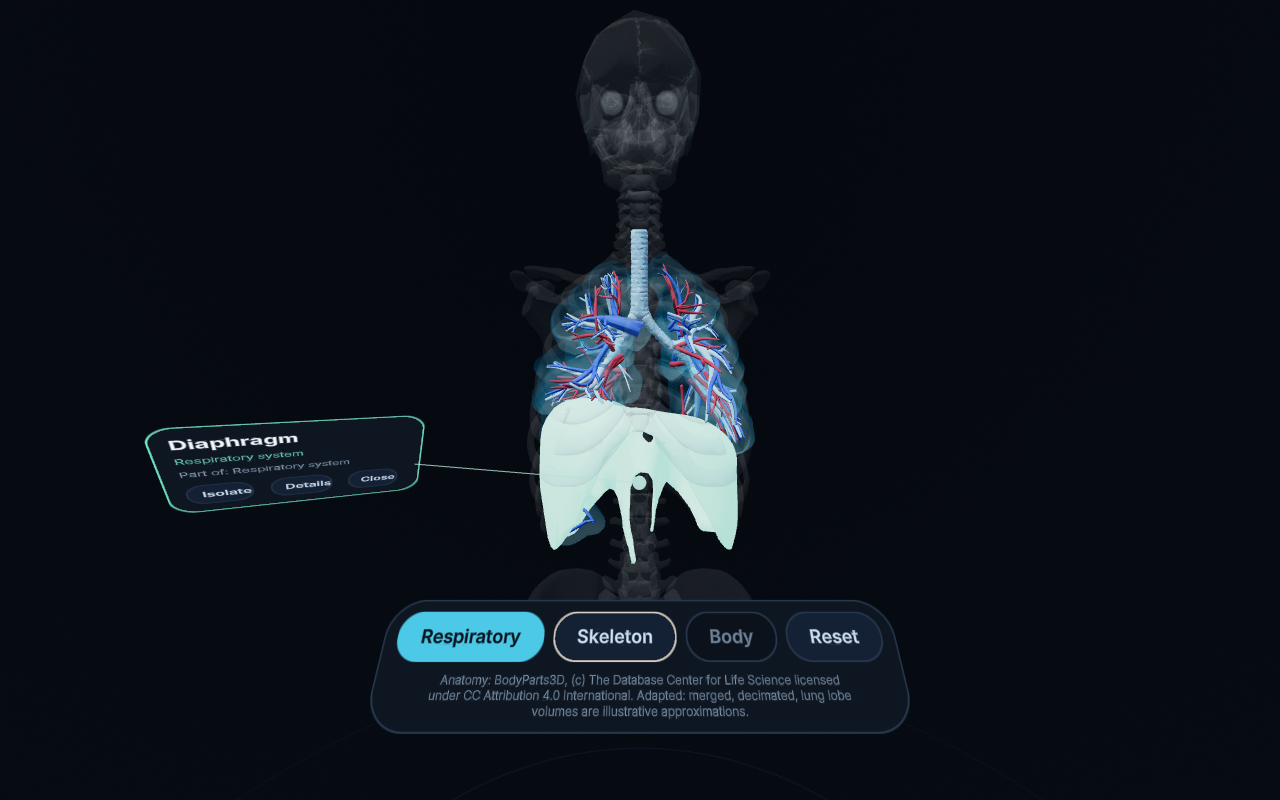
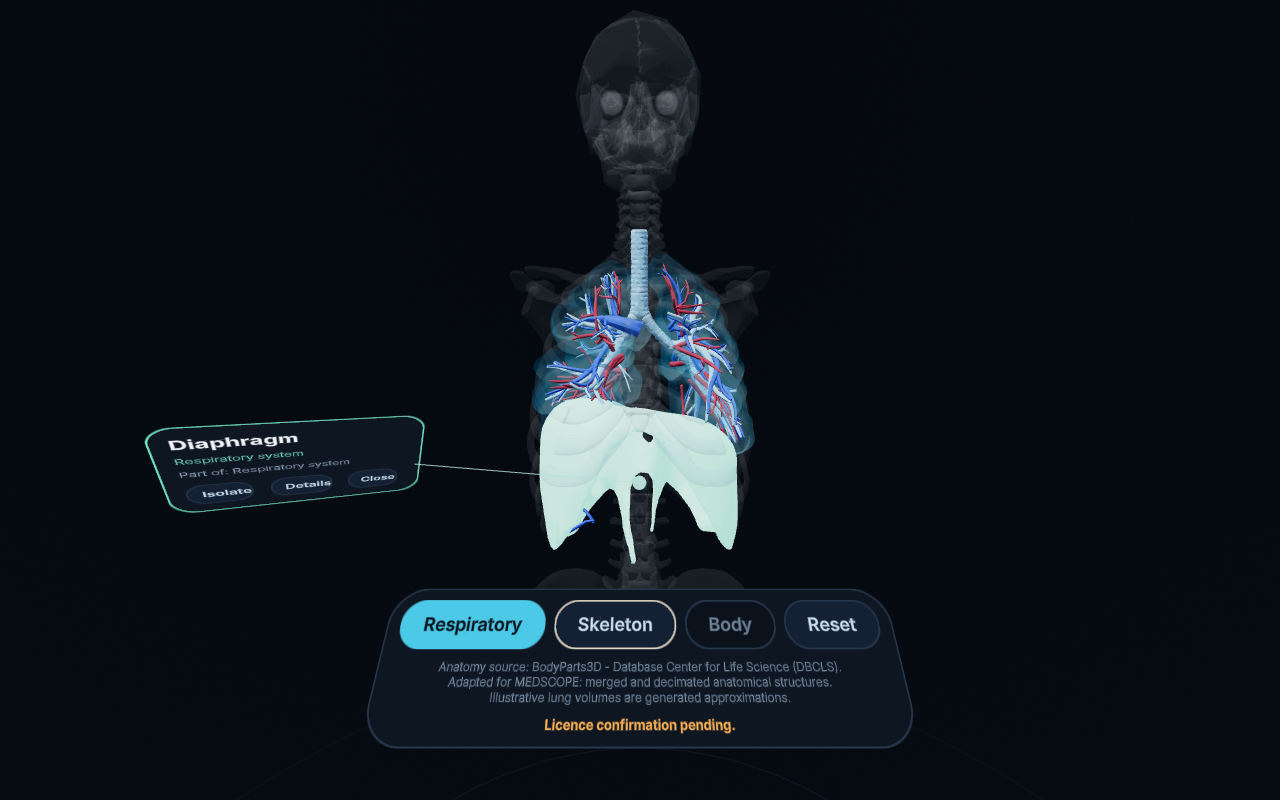
fix: neutral licence attribution, font audit, reproducible production check
Follow-up to 495bb92 (not an amend: that commit is already reviewed and
referenced).

- In-app attribution no longer names a licence. DBCLS has not confirmed which
  applies, so the dock now reads "Anatomy source: BodyParts3D - Database Center
  for Life Science (DBCLS). Adapted for MEDSCOPE: merged and decimated
  anatomical structures. Illustrative lung volumes are generated
  approximations." with an amber "Licence confirmation pending." line. A hyphen
  replaces the em dash because the UI font renders em dashes as a missing glyph.
- docs/asset-licenses.md: interim wording and its limits, full licence history
  preserved, new font audit (Inter, SIL OFL 1.1 per the package licence, atlases
  hash-matched to the build; OFL notice not yet shipped), updated open items.
  The DBCLS email draft now quotes the neutral wording.
- verify-production.mjs rewritten as a self-asserting suite: starts its own
  preview server, measures pixel regions, covers the Details/Less toggle and
  restore, and fails on a missed click (proven with a negative test). Playwright
  is now an explicit devDependency pinned to 1.65.1, the version already
  installed transitively, so nothing is upgraded. Adds `npm run verify:production`.
- Screenshots refreshed so none show the previous attribution text.

Licence status remains UNCONFIRMED. Do not publish or push the derived assets.

Changed region(s): [[0.2812, 0.7188, 0.7188, 0.9375], [0.4375, 0.625, 0.4688, 0.6875]]

diff --git a/docs/asset-licenses.md b/docs/asset-licenses.md
@@ -9,18 +9,22 @@
 
 Every third-party asset used by MEDSCOPE is recorded here. Add a row before adding an asset.
 
-## Required attribution text
+## Attribution shown in the application (interim, deliberately neutral)
 
-Wherever BodyParts3D-derived anatomy is shown or distributed, include this exact credit
-(the wording the licensor prescribes in the current README):
+Layer dock, `app/public/ui/layer-dock.uikitml`. Exact on-screen text:
 
-> BodyParts3D, © The Database Center for Life Science licensed under CC Attribution 4.0 International
+> Anatomy source: BodyParts3D - Database Center for Life Science (DBCLS). Adapted for MEDSCOPE: merged and decimated anatomical structures. Illustrative lung volumes are generated approximations.
+>
+> **Licence confirmation pending.** *(shown in amber)*
 
-**Status: shown in the application** (credit line under the layer dock, `app/public/ui/layer-dock.uikitml`).
-Two deliberate deviations: the copyright sign is written `(c)` because the UI font renders `©` as a
-missing-glyph box, and the line adds "Adapted: merged, decimated, lung lobe volumes are illustrative
-approximations" (CC BY requires indicating changes). The competition submission text still needs the credit.
-Showing this credit does not make the licence confirmed.
+- **It names no licence on purpose.** DBCLS has not confirmed which licence applies (see "Licence history"). An earlier version of the app displayed the licensor's prescribed credit, which names "CC Attribution 4.0 International"; that was too definitive and was removed.
+- **Interim only.** If DBCLS confirms a licence, replace this with the credit that licence requires. The neutral wording may not satisfy a licensor-prescribed attribution condition, which is one more reason the assets must not be published yet.
+- **Typography:** a hyphen is used where the requested wording had an em dash, because the UI font renders em dashes (and the copyright sign) as a missing-glyph box. Verified by rendering both.
+- **For the record, the credit texts the licensor has used** (neither is currently displayed):
+  - Current README (2025): "BodyParts3D, © The Database Center for Life Science licensed under CC Attribution 4.0 International".
+  - 2011 README: "BodyParts3D, Copyright© The Database Center for Life Science licensed by CC Attribution-Share Alike 2.1 Japan".
+- The generated registry (`structures.json`, `source.attribution`) still carries the first string as data, with a comment in `tools/anatomy-pipeline/structures.yaml` that it is not a statement of confirmation. It is not rendered anywhere.
+- The competition submission text still needs an attribution, worded after the licence is confirmed.
 
 ## BodyParts3D (anatomical geometry)
 
@@ -104,11 +108,33 @@ hierarchy beyond what BodyParts3D itself distributes is included.
 | Item | Licence | Notes |
 |---|---|---|
 | Structure descriptions (`app/public/anatomy/structure-info.json`) | Authored for MEDSCOPE | Standard anatomical reference statements. **Unreviewed by a clinician**; marked `reviewStatus: unreviewed` and labelled as such in the UI. Educational only. |
-| Software dependencies (IWSDK, Three.js, UIKit, etc.) | Per package | Not assets. Run `npm ls` and each package's licence for a software bill of materials. UI fonts shipped by `@pmndrs/uikit` have **not** been audited. |
+| Software dependencies (IWSDK, Three.js, UIKit, etc.) | Per package | Not assets. Run `npm ls` and each package's licence for a software bill of materials. UI fonts are audited separately below. |
+
+## Fonts
+
+Audited 2026-11-14 from the installed packages and the production build, not from the file format.
+
+| | |
+|---|---|
+| Font | **Inter** (the only font family in the production build; the UIKitML files set no `font-family`, so UIKit's default applies) |
+| Delivered as | Multi-channel signed-distance-field (MSDF) texture atlases embedded as base64 WebP in the chunk `dist/assets/inter-*.js`; the bundle has no `.ttf`, `.otf` or `.woff` files |
+| Weights in the build | light, medium, bold (four atlases in total) |
+| Source package | `@pmndrs/msdfonts` 1.0.78 (npm), described as "base64 msdf fonts distributed as npm package" |
+| Where the licence statement lives | `node_modules/@pmndrs/msdfonts/LICENSE`: "This package redistributes fonts from Google Fonts in MSDF format." |
+| Inter copyright and licence (as stated there) | "Copyright (c) 2016-2020 The Inter Project Authors", "Inter" is a trademark of Rasmus Andersson (https://github.com/rsms/inter). Listed under the **SIL Open Font License 1.1**, full text included in that file |
+| Evidence the shipped font is that Inter | The four atlas strings in `dist/assets/inter-*.js` hash identically to the four in `@pmndrs/msdfonts/dist/inter.js` (SHA-256, compared), and no other font chunk exists in `dist/` |
+| Code that renders it | `@pmndrs/uikit` and `@pmndrs/uikit-horizon`: MIT (Copyright 2024 Bela Bohlender; the horizon kit adds Copyright 2025 Meta Platforms LLC) |
+
+What this does and does not establish:
+
+- It establishes what the package publisher states and that our build embeds that package's Inter data. I did **not** verify the publisher's statement against the upstream Inter or Google Fonts files.
+- The MSDF conversion is a format change, which the OFL calls a "Modified Version" ("porting to a new environment"). That is permitted, but a Modified Version may not use a Reserved Font Name. The package licence lists no Reserved Font Name for Inter (only the trademark note); confirm against upstream before release.
+- **OFL condition 2 is not currently met by the built site.** Copies bundled with software must carry the copyright notice and the licence text. The production build contains neither (0 matches for the OFL text in `dist/`). Before publishing, ship a notice file (for example `public/licenses/`) containing the Inter copyright line and the OFL 1.1 text, and link it from the app or the submission.
+- The OFL's other conditions are unaffected: the font is not sold by itself, is not renamed, and is not used to endorse the app.
 
 ## Open items
 
 1. **Send the DBCLS confirmation request** (`docs/dbcls-licence-inquiry-draft.md`) and record the reply here. Until then the licence is unconfirmed and the assets must not be published or pushed.
-2. Add the required credit to the competition submission text.
-3. Audit fonts used by the UIKit panels. The production bundle includes a font chunk named `inter` (the Inter typeface, normally SIL OFL 1.1), shipped by `@pmndrs/uikit`; the licence has not been verified.
+2. After the reply, replace the interim in-app wording with the credit the confirmed licence requires, and put the same credit in the competition submission text.
+3. **Fonts:** ship the Inter copyright notice and OFL 1.1 text with the build (see "Fonts"), and confirm there is no Reserved Font Name upstream.
 4. Later iteration: evaluate Z-Anatomy (or another source) for real lung surfaces and for muscular and nervous systems; record its licence here first.

diff --git a/docs/dbcls-licence-inquiry-draft.md b/docs/dbcls-licence-inquiry-draft.md
@@ -57,9 +57,13 @@ applies to the BodyParts3D data I downloaded, before I redistribute any adapted 
 
 **Attribution I currently display**
 
-"Anatomy: BodyParts3D, (c) The Database Center for Life Science licensed under CC Attribution 4.0
-International. Adapted: merged, decimated, lung lobe volumes are illustrative approximations."
-(The copyright sign is written "(c)" only because the user-interface font cannot render it.)
+Because I do not yet know which licence applies, the application deliberately names none. It shows:
+
+"Anatomy source: BodyParts3D - Database Center for Life Science (DBCLS). Adapted for MEDSCOPE: merged and
+decimated anatomical structures. Illustrative lung volumes are generated approximations. Licence
+confirmation pending."
+
+I will replace this with whatever credit you specify for the confirmed licence.
 
 **My questions**
 
@@ -69,7 +73,7 @@ International. Adapted: merged, decimated, lung lobe volumes are illustrative ap
    attribution above, without share-alike?
 3. If instead CC BY-SA 2.1 Japan applies to these files, is the adapted data to be released under the same
    licence, and is a later CC BY-SA version acceptable?
-4. Is the attribution text above acceptable, including the "(c)" spelling and the added statement of changes?
+4. Is the interim wording above acceptable until you reply, and what exact credit text do you require once the licence is confirmed?
 5. Does anything restrict use in an educational prototype shown in a public competition, or restrict
    later commercial use?
 6. Are the FMA concept identifiers in the distributed lists free to reuse as identifiers in my registry?
